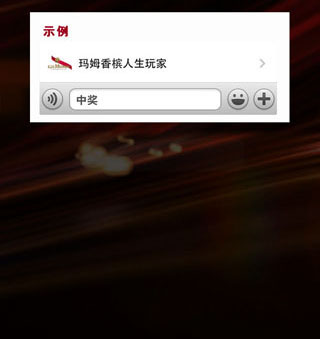
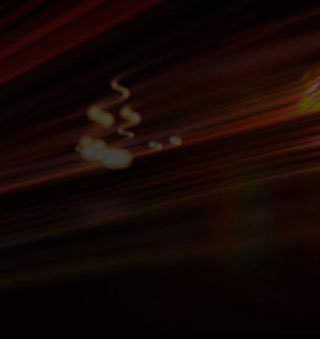
全屏100%

diff --git a/src/提交结果.htm b/src/提交结果.htm
@@ -24,9 +24,9 @@
 
 
 
-<div id="swap_9363" class="e-wrap template-style-10" style="background:url() center no-repeat; background-size: 100% 100%;">
-<div align="center" style="background:url(indeximg/topcg.jpg) center no-repeat;width:320px;height:278px; z-index:1"></div>
-  <div class="e-sect rich-text" style="background:url(indeximg/bgcg.jpg) center no-repeat; background-size: 100% 100%; height:319px;">
+<div id="swap_9363" class="e-wrap template-style-10" style="background:url() center no-repeat; background-size: 100% 100%;z-index:1">
+<div align="center" style="background:url(indeximg/topcg.jpg) center no-repeat; background-size: 100% 100%;"><img src="indeximg/topcg.jpg" width="100%"  /></div>
+  <div class="e-sect rich-text" style="background:url(indeximg/bgcg.jpg) center no-repeat; background-size: 100% 100%; height:80%;">
     <div class="e-widget-box">
       <div class="e-widget-title" style="display:none;"></div>
       <div class="e-widget-content">
@@ -34,26 +34,22 @@
 	  
 	  
         <p style="text-align:center;"> </p>
-        <table width="286" border="0" align="center" cellpadding="0" cellspacing="5">
+        <table width="100%" border="0" align="center" cellpadding="0" cellspacing="5">
           <tr>
             <td width="123"><div align="center"></div></td>
             <td width="152">&nbsp;</td>
           </tr>
           <tr>
-            <td height="26" colspan="2">&nbsp;</td>
+            <td colspan="2"><div align="center"><img src="indeximg/sr.jpg" width="90%" /></div></td>
           </tr>
-          <tr>
-            <td height="59" colspan="2">&nbsp;</td>
-          </tr>
+          
           <tr>
             <td colspan="2">
               <div align="center"></div>
 		<div id="sharemcover" onClick="document.getElementById('sharemcover').style.display='';" style=" display:none"><img src="images/MgnnofmleM.png"></div>
 	<div class="sendBtn-box"> 
 			  <div align="center"><a class="sendBtn" onClick="document.getElementById('sharemcover').style.display='block';"><img src="indeximg/yq.png" width="163" height="32" /></a></div>
-	</div>		  
-			  
-		    </td>
+	</div>		    </td>
           </tr>
         </table>
         <p></p>

diff --git a/src/css/lanrenzhijia.css b/src/css/lanrenzhijia.css
@@ -6,11 +6,11 @@
 .v02{background-position:0 -16px;}
 
 
-.vtitle{height:55px;background:url(../images/ban.png) no-repeat;line-height:35px;border-bottom:1px solid #ccb6a9;margin-top:0px;text-align:center;font-size:25px;color:#F8E6B8;font-family:"\5FAE\8F6F\96C5\9ED1";cursor:pointer;}
+.vtitle{height:55px;background:url(../images/ban.png) no-repeat;background-size: 100% 100%;line-height:35px;border-bottom:1px solid #ccb6a9;margin-top:0px;text-align:center;font-size:25px;color:#F8E6B8;font-family:"\5FAE\8F6F\96C5\9ED1";cursor:pointer;}
 .vtitle em{margin:10px 10px 0 0;}
 
 
 .vconlist{ width:100%;}
-.vconlist li a{height:30px;line-height:30px;text-align:center;display:block;font-size:18px;color:#866f67;font-size:25px;background:url(../pic/bv.jpg) no-repeat;font-family:"\5FAE\8F6F\96C5\9ED1";}
-.vconlist li.select a,.vconlist li a:hover{color:#ed4948;text-decoration:none;font-size:25px;background:url(../pic/bv1.jpg) no-repeat;}
+.vconlist li a{height:30px;line-height:30px;text-align:center;display:block;font-size:18px;color:#866f67;font-size:25px;background:url(../pic/bv.jpg) no-repeat;background-size: 100% 100%;font-family:"\5FAE\8F6F\96C5\9ED1";}
+.vconlist li.select a,.vconlist li a:hover{color:#ed4948;text-decoration:none;font-size:25px;background:url(../pic/bv1.jpg) no-repeat;background-size: 100% 100%;}
 /* */

diff --git a/src/输入手机号码.html b/src/输入手机号码.html
@@ -23,7 +23,7 @@
 
 
 
-<div align="center"><img src="pic/toppic.jpg" style="width:320px;height:73px;" width="320" height="73" border="0" hspace="0" vspace="0" />
+<div align="center"><img src="pic/toppic.jpg" width="100%"  border="0" hspace="0" vspace="0" />
   
 </div>
 <div id="swap_9363" class="e-wrap template-style-10" style="background:url() center no-repeat; background-size: 100% 100%;">

diff --git a/src/输入联系地址.html b/src/输入联系地址.html
@@ -24,7 +24,7 @@
 
 
 
-<div align="center"><img src="pic/toppic.jpg" style="width:320px;height:73px;" width="320" height="73" border="0" hspace="0" vspace="0" />
+<div align="center"><img src="pic/toppic.jpg" width="100%"  border="0" hspace="0" vspace="0" />
   
 </div>
 <div id="swap_9363" class="e-wrap template-style-10" style="background:url() center no-repeat; background-size: 100% 100%;">

diff --git a/src/css/module.css b/src/css/module.css
@@ -78,12 +78,12 @@ body {
 }
 @media screen and (min-width: 513px) {
 body {
-	width: 320px !important;
+	width: 100% !important;
 	margin: auto;
 }
 .e-top {
-	left: 50% !important;
-	width: 320px !important;
+	left: 0% !important;
+	width: 100%px !important;
 	margin-left: -160px !important;
 }
 }
